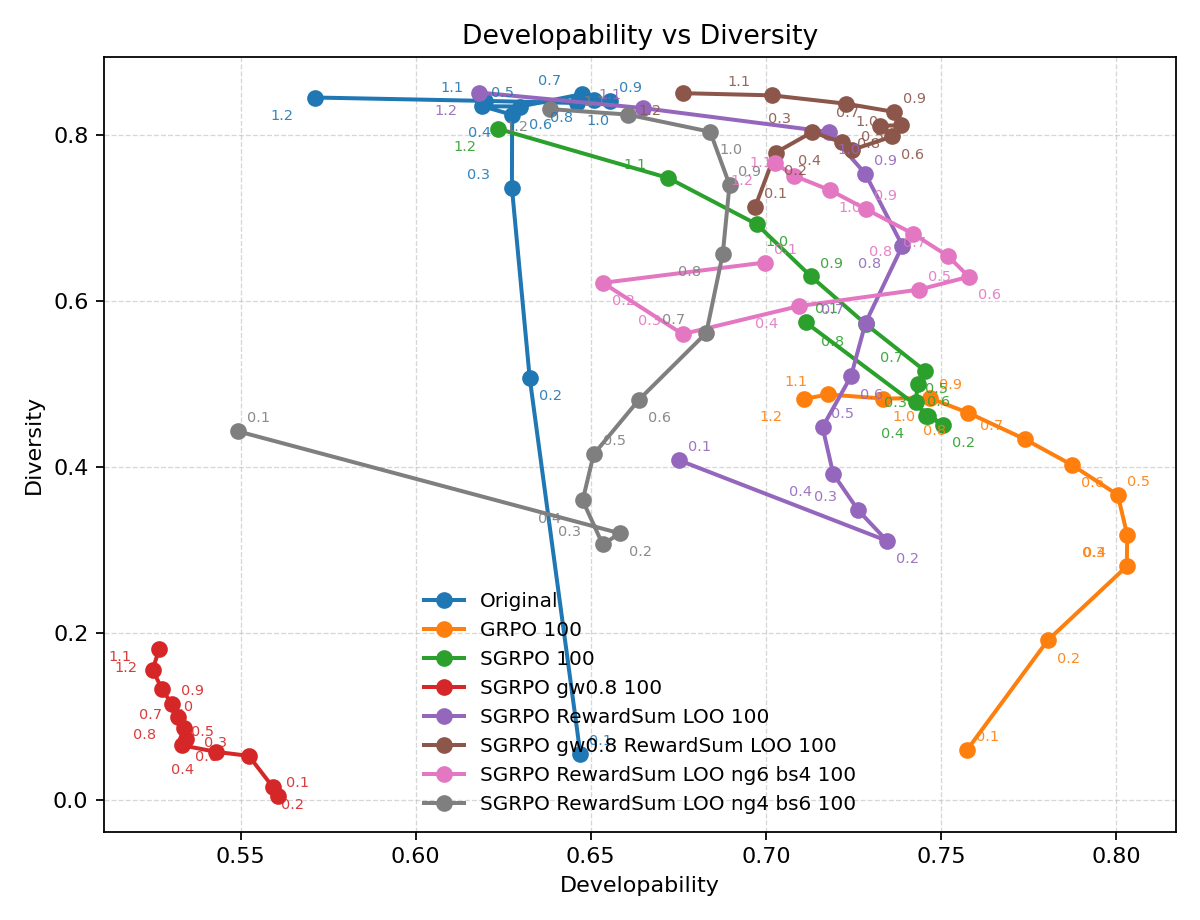
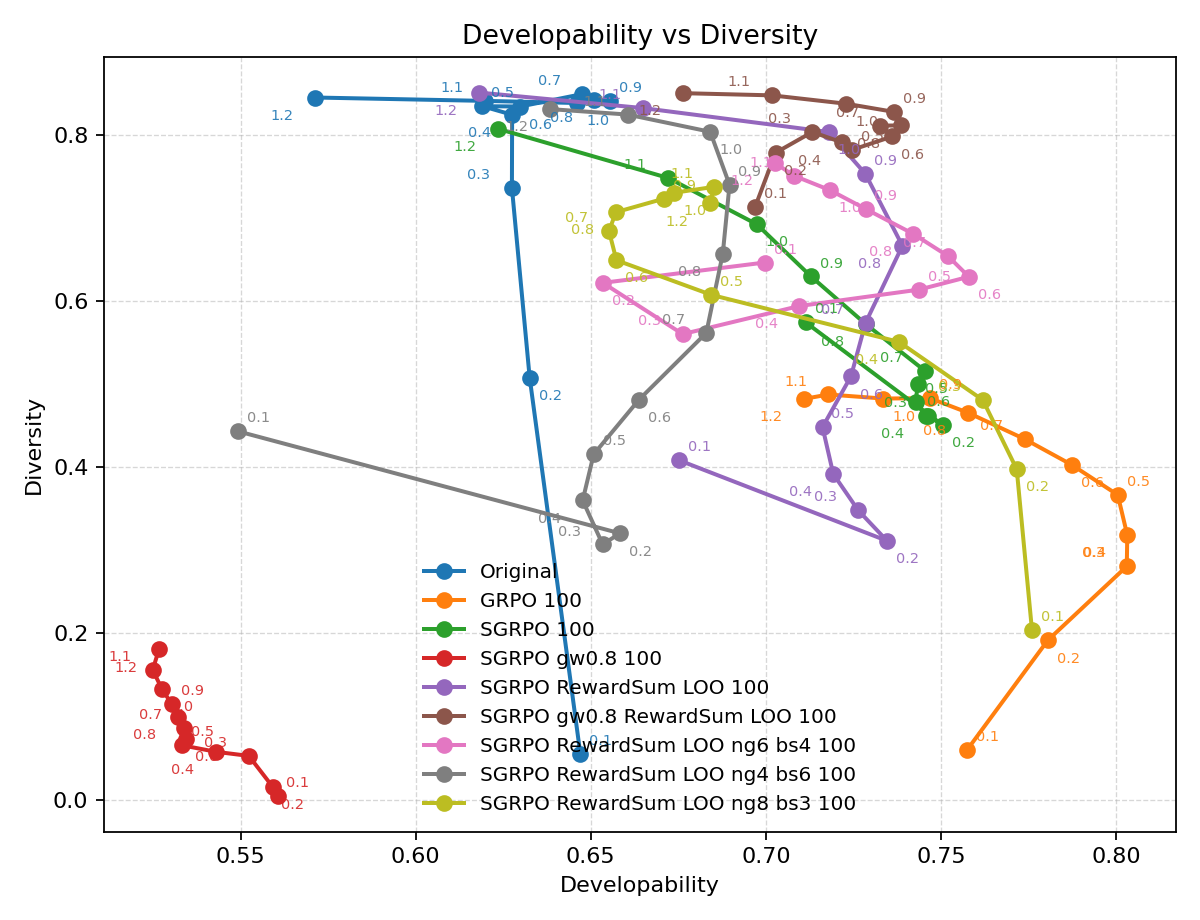
Update progen2 ng8 bs3 sweep results

diff --git a/sgrpo-main-results/README.md b/sgrpo-main-results/README.md
@@ -2766,12 +2766,12 @@ group_rewrad_credit_temperature = 1.0
 
 ### SGRPO + Reward-Sum Hierarchy + LOO Group Credit + `num_generations = 8`, `per_device_prompt_batch_size = 3`
 
-Status: `Running`
+Status: `Verified`
 
 Checkpoint:
 
 ```text
-/public/home/xinwuye/ai4s-tool-joint-train/runs/progen2_sgrpo/progen2_sgrpo_ng8_sg8_bs3_len256_rbs16_rewardsum_loo_slurm54206/checkpoint-000060
+/public/home/xinwuye/ai4s-tool-joint-train/runs/progen2_sgrpo/progen2_sgrpo_ng8_sg8_bs3_len256_rbs16_rewardsum_loo_slurm54206/checkpoint-000100
 ```
 
 Training config:
@@ -2809,10 +2809,10 @@ per_device_prompt_batch_size = 3
 ```
 - Initial training job `53810` failed on `server13` after producing only `checkpoint-000040`.
 - The line was resubmitted with `--exclude=server13` as job `54206`.
-- Current run directory: `/public/home/xinwuye/ai4s-tool-joint-train/runs/progen2_sgrpo/progen2_sgrpo_ng8_sg8_bs3_len256_rbs16_rewardsum_loo_slurm54206`
-- The replacement run is still in progress on `server01`.
-- Latest verified in-run artifact is `checkpoint-000060`; the run directory currently contains `checkpoint-000020`, `checkpoint-000040`, and `checkpoint-000060`.
-- No locked `checkpoint-000100` is adopted yet.
+- Verified comparison checkpoint: `checkpoint-000100`
+- Run directory: `/public/home/xinwuye/ai4s-tool-joint-train/runs/progen2_sgrpo/progen2_sgrpo_ng8_sg8_bs3_len256_rbs16_rewardsum_loo_slurm54206`
+- Completion evidence: the run directory contains `checkpoint-000100` and later checkpoints through `checkpoint-000200`.
+- The locked main-result comparison uses the user-requested `checkpoint-000100`.
 
 ### SGRPO + Reward-Sum Hierarchy + LOO Group Credit + `num_generations = 6`, `per_device_prompt_batch_size = 4`
 
@@ -3022,7 +3022,7 @@ scripts/slurm/run_progen2_sweep_gpu.sbatch
 Generation invocation:
 
 ```text
-CONFIG_PATH=configs/progen2_temperature_sweep_pipeline_20260502.yaml MODE=generate-task sbatch --array=0-95 scripts/slurm/run_progen2_sweep_gpu.sbatch
+CONFIG_PATH=configs/progen2_temperature_sweep_pipeline_20260502.yaml MODE=generate-task sbatch --array=0-107 scripts/slurm/run_progen2_sweep_gpu.sbatch
 ```
 
 Packed GPU reward invocations:
@@ -3035,8 +3035,8 @@ CONFIG_PATH=configs/progen2_temperature_sweep_pipeline_20260502.yaml MODE=score-
 Per-point reward invocations:
 
 ```text
-CONFIG_PATH=configs/progen2_temperature_sweep_pipeline_20260502.yaml MODE=score-point-reward-task REWARD_NAME=foldability sbatch --array=0-95 scripts/slurm/run_progen2_sweep_gpu.sbatch
-CONFIG_PATH=configs/progen2_temperature_sweep_pipeline_20260502.yaml sbatch --array=0-95 scripts/slurm/run_progen2_sweep_developability_cpu.sbatch
+CONFIG_PATH=configs/progen2_temperature_sweep_pipeline_20260502.yaml MODE=score-point-reward-task REWARD_NAME=foldability sbatch --array=0-107 scripts/slurm/run_progen2_sweep_gpu.sbatch
+CONFIG_PATH=configs/progen2_temperature_sweep_pipeline_20260502.yaml sbatch --array=0-107 scripts/slurm/run_progen2_sweep_developability_cpu.sbatch
 ```
 
 Point-diversity launch script:
@@ -3048,7 +3048,7 @@ scripts/slurm/run_progen2_sweep_diversity_cpu.sbatch
 Point-diversity invocation:
 
 ```text
-CONFIG_PATH=configs/progen2_temperature_sweep_pipeline_20260502.yaml sbatch --array=0-95 scripts/slurm/run_progen2_sweep_diversity_cpu.sbatch
+CONFIG_PATH=configs/progen2_temperature_sweep_pipeline_20260502.yaml sbatch --array=0-107 scripts/slurm/run_progen2_sweep_diversity_cpu.sbatch
 ```
 
 Aggregation launch script:
@@ -3083,16 +3083,14 @@ developability.batch_size = 24
 Completed sweep jobs:
 
 ```text
-54296  packed naturalness scoring
-54297  packed stability scoring
-54298  foldability array initial pass
-54492  foldability array repair for the `server13` failures
-54299  developability array
-54300  point-diversity array
-54546  final aggregate
+55162  generation array for task ids `96-107` (`sgrpo_ng8_bs3_rewardsum_loo_step100`)
+55163  packed naturalness scoring over the full `0-107` manifest
+55164  packed stability scoring over the full `0-107` manifest
+55165  foldability array for task ids `96-107`
+55166  developability array for task ids `96-107`
+55167  point-diversity array for task ids `96-107`
+55168  final aggregate
 ```
-
-- Generation outputs in the configured `generation_output_root` were already present and were reused for this pass; the exact generation array job id was not re-resolved in this update.
 
 Aggregated result files:
 
@@ -3123,9 +3121,10 @@ Metric definition notes:
 
 Key observations:
 
-- `SGRPO RewardSum LOO 100` reaches the strongest peak `soft_reward_mean` in the full 8-model comparison at `temperature=0.4` (`0.8237`) while retaining moderate diversity (`0.3917`).
+- `SGRPO RewardSum LOO 100` reaches the strongest peak `soft_reward_mean` in the full 9-model comparison at `temperature=0.4` (`0.8237`) while retaining moderate diversity (`0.3917`).
 - `SGRPO gw0.8 RewardSum LOO 100` gives the strongest high-diversity frontier in this sweep extension: diversity reaches `0.8498` at `temperature=1.2` with `soft_reward_mean=0.4764`.
-- Among the altered `num_generations / per_device_prompt_batch_size` variants, `SGRPO RewardSum LOO ng4 bs6 100` is clearly stronger than `ng6 bs4`: it peaks at `soft_reward_mean=0.7969` (`temperature=0.6`) and still reaches diversity `0.8306` at `temperature=1.2`.
+- Among the altered `num_generations / per_device_prompt_batch_size` variants, `SGRPO RewardSum LOO ng4 bs6 100` remains the strongest overall frontier: it peaks at `soft_reward_mean=0.7969` (`temperature=0.6`) and still reaches diversity `0.8306` at `temperature=1.2`.
+- The newly completed `SGRPO RewardSum LOO ng8 bs3 100` is the sharpest low-temperature variant: it starts at `soft_reward_mean=0.7923`, `naturalness=0.9997`, `foldability=0.8171`, and `developability=0.7760` at `temperature=0.1`, but its diversity frontier tops out lower than `ng4 bs6` (`0.7372` at `temperature=1.1`).
 
 Plots:
 

diff --git a/sgrpo-main-results/progen2/progen2_temperature_sweep_20260502.md b/sgrpo-main-results/progen2/progen2_temperature_sweep_20260502.md
@@ -107,6 +107,18 @@
 | SGRPO RewardSum LOO ng4 bs6 100 | 1.000000 | 0.591532 | 0.472513 | 0.685043 | 0.484332 | 0.684100 | 0.803312 | 1.000000 | 1.000000 | 155.417969 |
 | SGRPO RewardSum LOO ng4 bs6 100 | 1.100000 | 0.518167 | 0.325502 | 0.656493 | 0.373596 | 0.660498 | 0.824063 | 1.000000 | 1.000000 | 122.322266 |
 | SGRPO RewardSum LOO ng4 bs6 100 | 1.200000 | 0.434827 | 0.175270 | 0.622029 | 0.223978 | 0.638420 | 0.830600 | 1.000000 | 1.000000 | 86.146484 |
+| SGRPO RewardSum LOO ng8 bs3 100 | 0.100000 | 0.792264 | 0.999730 | 0.817134 | 0.515955 | 0.776000 | 0.204106 | 1.000000 | 1.000000 | 256.000000 |
+| SGRPO RewardSum LOO ng8 bs3 100 | 0.200000 | 0.762572 | 0.999929 | 0.786135 | 0.419181 | 0.771650 | 0.397470 | 1.000000 | 1.000000 | 256.000000 |
+| SGRPO RewardSum LOO ng8 bs3 100 | 0.300000 | 0.752758 | 0.948410 | 0.758575 | 0.487967 | 0.761957 | 0.480700 | 1.000000 | 1.000000 | 256.000000 |
+| SGRPO RewardSum LOO ng8 bs3 100 | 0.400000 | 0.714237 | 0.777838 | 0.717632 | 0.599917 | 0.738018 | 0.550569 | 1.000000 | 1.000000 | 256.000000 |
+| SGRPO RewardSum LOO ng8 bs3 100 | 0.500000 | 0.673486 | 0.753839 | 0.679477 | 0.550363 | 0.684441 | 0.607126 | 1.000000 | 1.000000 | 256.000000 |
+| SGRPO RewardSum LOO ng8 bs3 100 | 0.600000 | 0.627373 | 0.685777 | 0.638702 | 0.499924 | 0.657334 | 0.648800 | 1.000000 | 1.000000 | 254.826172 |
+| SGRPO RewardSum LOO ng8 bs3 100 | 0.700000 | 0.564716 | 0.533654 | 0.609721 | 0.422925 | 0.655205 | 0.683915 | 1.000000 | 1.000000 | 250.705078 |
+| SGRPO RewardSum LOO ng8 bs3 100 | 0.800000 | 0.502018 | 0.382222 | 0.585078 | 0.333219 | 0.657182 | 0.706584 | 1.000000 | 1.000000 | 246.896484 |
+| SGRPO RewardSum LOO ng8 bs3 100 | 0.900000 | 0.459836 | 0.286004 | 0.560328 | 0.262588 | 0.670877 | 0.722851 | 1.000000 | 1.000000 | 241.640625 |
+| SGRPO RewardSum LOO ng8 bs3 100 | 1.000000 | 0.454494 | 0.285032 | 0.547419 | 0.252718 | 0.673867 | 0.729953 | 1.000000 | 1.000000 | 233.990234 |
+| SGRPO RewardSum LOO ng8 bs3 100 | 1.100000 | 0.450694 | 0.276319 | 0.534168 | 0.250172 | 0.685320 | 0.737171 | 1.000000 | 1.000000 | 229.472656 |
+| SGRPO RewardSum LOO ng8 bs3 100 | 1.200000 | 0.500205 | 0.379639 | 0.560651 | 0.330519 | 0.683986 | 0.717179 | 1.000000 | 1.000000 | 224.173828 |
 
 Column notes:
 - `Soft Reward` is the rollout-level weighted sum of reward components using the training-time reward weights for each experiment.
